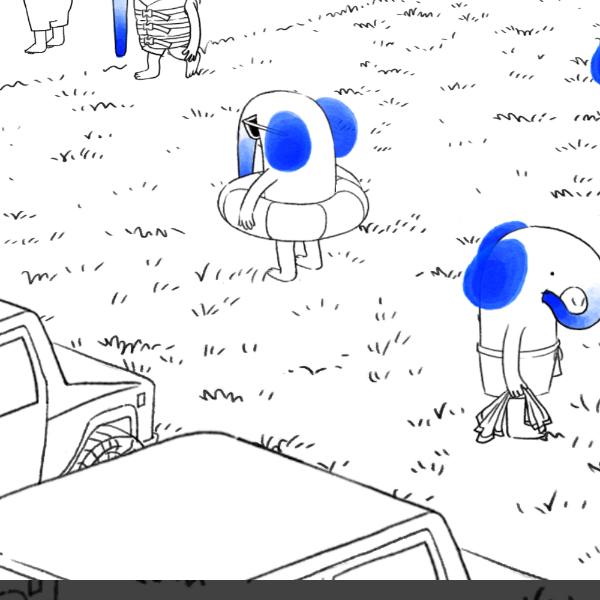
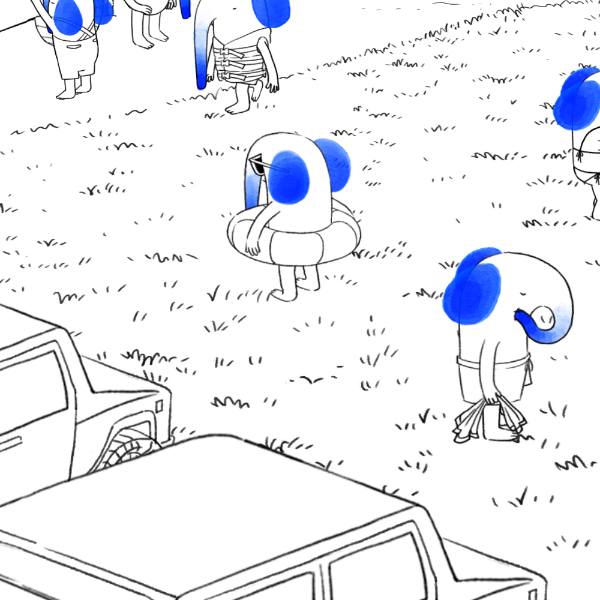
빌드후 캡쳐 비율 문제 해결
set resolution 으로 스크린 사이즈를 확실하게 고정

diff --git a/ProjectOF_Morrie/Assets/Scripts/PictureSave.cs b/ProjectOF_Morrie/Assets/Scripts/PictureSave.cs
@@ -13,7 +13,7 @@ public class PictureSave : MonoBehaviour
     // Start is called before the first frame update
     void Start()
     {
-        Screen.SetResolution(Screen.width, Screen.height, true);
+        Screen.SetResolution(1080, 1920, true);
     }
 
     public void SavePhoto()
@@ -26,11 +26,9 @@ public class PictureSave : MonoBehaviour
         yield return new WaitForEndOfFrame();
         //한프레임 대기
         
-        //Texture2D screenShot = new Texture2D(600, 600, TextureFormat.RGB24, false);
-        //print(renderViewSize.sizeDelta);
-        Texture2D screenShot = new Texture2D((int)(renderViewSize.sizeDelta.x * 0.6f), (int)(renderViewSize.sizeDelta.y * 0.6f), TextureFormat.RGB24, false);
-        //screenShot.ReadPixels(new Rect(Screen.width/2 - 300, Screen.height/2 - 197, screenShot.width, screenShot.height), 0, 0);
-        screenShot.ReadPixels(new Rect(Screen.width / 2 - screenShot.width/2, Screen.height / 2 - screenShot.width/2 + renderViewSize.position.y, screenShot.width, screenShot.height), 0, 0);
+        Texture2D screenShot = new Texture2D(600, 600, TextureFormat.RGB24, false);
+        screenShot.ReadPixels(new Rect(Screen.width/2 - 300, Screen.height/2 - 197, screenShot.width, screenShot.height), 0, 0);
+
         screenShot.Apply();
 
         if (SystemInfo.deviceType == DeviceType.Handheld)
